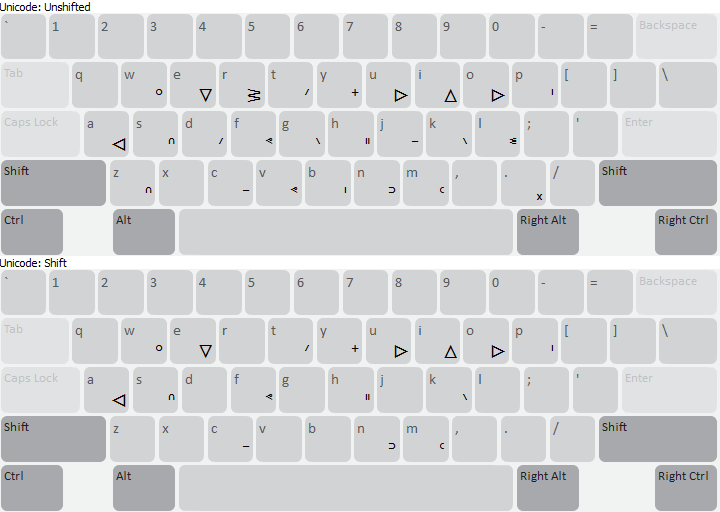
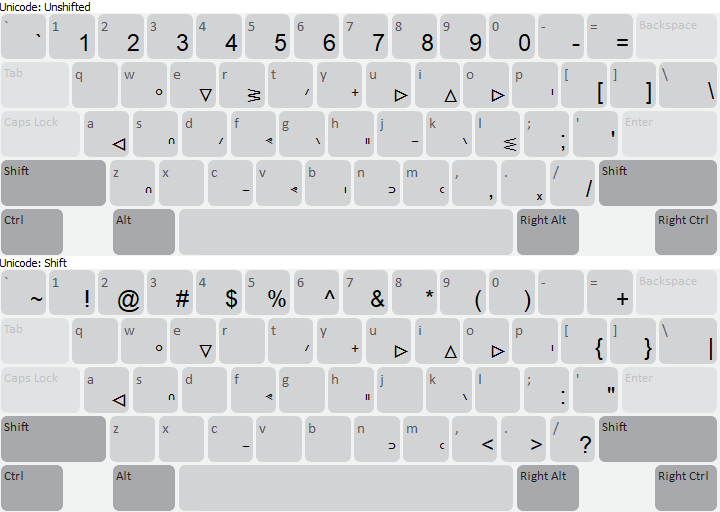
nul unwanted keys and two fixes

diff --git a/release/bj/bj_cree_woods/HISTORY.md b/release/bj/bj_cree_woods/HISTORY.md
@@ -5,6 +5,8 @@ Western Cree (TH-Woods) Change History
 ----------------
 * migrate to the public repo
 * fix the two keys and add rules for sh and th
+* add a rule for final hk
+* change output for key l from U+14EB to U+14EC
 
 1.0
 ----------------
